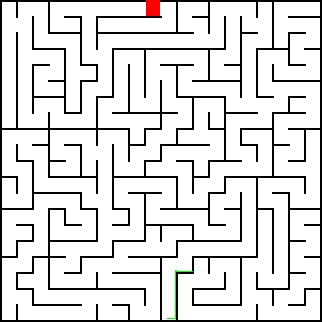
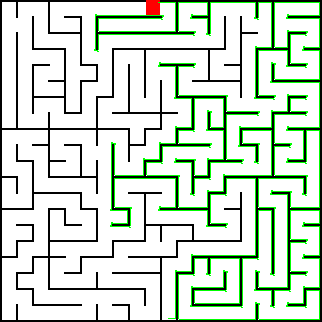
Modified pathfinding

diff --git a/maze_solver.py b/maze_solver.py
@@ -1,6 +1,5 @@
 import numpy as np
 import cv2 as cv
-from time import sleep
 
 
 class MazeSolver:
@@ -14,74 +13,56 @@ class MazeSolver:
 
 
 	def pathing(self):
-
-		# DODAJ DIAGONALE
-
 		self.directions()
 		self.sensorcheck()
-		if self.sensors[0][0] == True or (any(self.sensors[0]) == False and
-			any(self.sensors[1]) == False and self.lastdir == 2):
+		if (self.sensors[0][0] == True and any(self.sensors[1]) == False or
+			(any(self.sensors[0]) == False and any(self.sensors[1]) == False and
+			self.lastdir == 2) or self.sensors[0][0] == True and self.sensors[1][0] == True):
 			while int(list(self.up)[2]) + int(list(self.left)[2]) == 255:
-				self.updatepath()
 				self.posX -= 1
+				self.updatepath()
 				self.sensorcheck()
-			self.updatepath()
-			self.posX -= 1
-			self.sensorcheck()
+			if any(self.sensors[0]) == False and any(self.sensors[1]) == False:
+				self.posX -= 1
+				self.updatepath()
+				self.sensorcheck()
 			self.lastdir = 4
-		elif self.sensors[0][1] == True or (any(self.sensors[0]) == False and
-			any(self.sensors[1]) == False and self.lastdir == 1):
+		elif (self.sensors[0][1] == True and any(self.sensors[1]) == False or
+			(any(self.sensors[0]) == False and any(self.sensors[1]) == False and
+			self.lastdir == 1) or self.sensors[0][1] == True and self.sensors[1][1] == True):
 			while int(list(self.down)[2]) + int(list(self.right)[2]) == 255:
-				self.updatepath()
 				self.posX += 1
-				self.sensorcheck()
-			self.updatepath()
-			self.posX += 1
-			self.sensorcheck()
-			self.lastdir = 3
-		elif self.sensors[1][0] == True or (any(self.sensors[0]) == False and
-			any(self.sensors[1]) == False and self.lastdir == 4):
-			while int(list(self.right)[2]) + int(list(self.up)[2]) == 255:
 				self.updatepath()
-				self.posY -= 1
 				self.sensorcheck()
-			self.updatepath()
-			self.posY -= 1
-			self.sensorcheck()
+			if any(self.sensors[0]) == False and any(self.sensors[1]) == False:
+				self.posX += 1
+				self.updatepath()
+				self.sensorcheck()
+			self.lastdir = 3
+		elif (self.sensors[1][0] == True and any(self.sensors[0]) == False or
+			(any(self.sensors[0]) == False and any(self.sensors[1]) == False and
+			self.lastdir == 4) or self.sensors[0][1] == True and self.sensors[1][0] == True):
+			while int(list(self.right)[2]) + int(list(self.up)[2]) == 255:
+				self.posY -= 1
+				self.updatepath()
+				self.sensorcheck()
+			if any(self.sensors[0]) == False and any(self.sensors[1]) == False:
+				self.posY -= 1
+				self.updatepath()
+				self.sensorcheck()
 			self.lastdir = 1
-		elif self.sensors[1][1] == True or (any(self.sensors[0]) == False and
-			any(self.sensors[1]) == False and self.lastdir == 3):
+		elif (self.sensors[1][1] == True and any(self.sensors[0]) == False or 
+			(any(self.sensors[0]) == False and any(self.sensors[1]) == False and
+			self.lastdir == 3) or self.sensors[0][0] == True and self.sensors[1][1] == True):
 			while int(list(self.left)[2]) + int(list(self.down)[2]) == 255:
 				self.updatepath()
 				self.posY += 1
 				self.sensorcheck()
-			self.updatepath()
-			self.posY += 1
-			self.sensorcheck()
+			if any(self.sensors[0]) == False and any(self.sensors[1]) == False:
+				self.posY += 1
+				self.updatepath()
+				self.sensorcheck()
 			self.lastdir = 2
-
-			#while self.sensors[0][0]
-			#while self.sensors[0][0] == True and self.sens
-
-		'''self.dire = dire
-								self.directions()
-								while self.dire[2] == 255:
-									print(self.posX, self.posY)
-									sleep(.1)
-									self.updatepath()
-									self.sensorcheck()
-									if self.dire == 'UP':
-										self.posY -= 1
-										print(1)
-									elif self.dire == 'DOWN':
-										self.posY += 1
-										print(2)
-									elif self.dire == 'RIGHT':
-										self.posX += 1
-									elif self.dire == 'LEFT':
-										self.posX -= 1
-									self.directions()'''
-
 
 	def directions(self):
 		self.up = list(self.img[self.posY-1, self.posX])
@@ -109,23 +90,12 @@ class MazeSolver:
 	def path(self):
 		self.directions()
 		while self.right[2] == 255:
-			print(self.posX, self.posY, self.right)
-			self.updatepath()
 			self.posX += 1
+			self.updatepath()
 			self.sensorcheck()
-		self.pathing()
-		for i in range(10):
+		self.sensorcheck()
+		while self.left != [0, 0, 255]:
 			self.pathing()
-		#while int(list(self.img[self.posY, self.posX+1])[2]) + int(list(self.img[self.posY-1, self.posX])[2]) != 0:
-			#print(int(list(self.img[self.posY, self.posX+1])[2]) + int(list(self.img[self.posY-1, self.posX])[2]))
-			#self.pathing(self.right)
-			#self.pathing('UP')
-		#while True:
-			#self.directions()
-			#if self.up[2] == 0 and self.right[2] == 0:
-				#self.pathingW()
-
-
 
 	def drawing(self):
 		for ind, val in enumerate(self.pathX):
